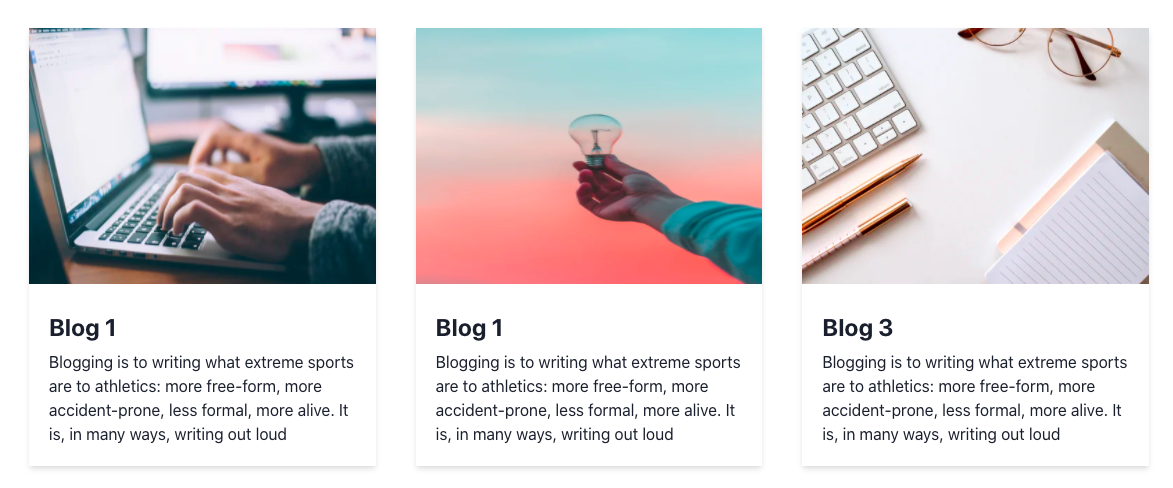
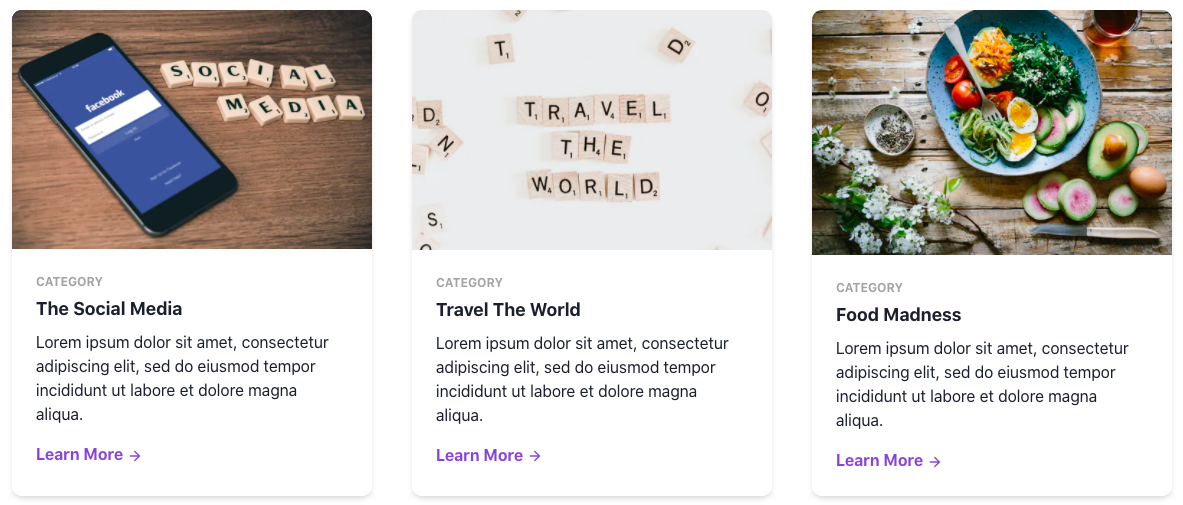
Modified the blog components

diff --git a/src/utils/componentsStructure/metaComponents/BlogComponent2.ts b/src/utils/componentsStructure/metaComponents/BlogComponent2.ts
@@ -1,63 +1,193 @@
-const Blog2 = `  <Flex>
-<Box width="30%" shadow="md" borderRadius="10px" m="5">
-  <Image
-    width="100%"
-    src="https://images.unsplash.com/photo-1432888622747-4eb9a8efeb07?ixid=MXwxMjA3fDB8MHxzZWFyY2h8ODB8fGJsb2d8ZW58MHx8MHw%3D&ixlib=rb-1.2.1&auto=format&fit=crop&w=500&q=60"
-    borderTopRightRadius="10px"
-    borderTopLeftRadius="10px"
-  />
-  <Box p="6">
-
-    <Text color="blackAlpha.500" fontWeight="700" fontSize="xs" mb="1">
-      CATEGORY
-    </Text>
-    <Text fontSize="lg" mb="2" fontWeight="700">The Social Media</Text>
-    <Text mb="4">
-      Lorem ipsum dolor sit amet, consectetur adipiscing elit, sed do eiusmod tempor incididunt ut labore et dolore magna aliqua.
-    </Text><Flex color="purple.500" fontWeight="700">
-      <Text mr="1">Learn More</Text>
-      <Icon as={ArrowForwardIcon} />
+const Blog2 = `
+<Box>
+<Flex height="300px" m="10" mb="20">
+  <Box
+    width="50%"
+    display="flex"
+    flexDirection="column"
+    justifyContent="space-between"
+    pt="4"
+    pb="4"
+    pr="16"
+  >
+    <Box>
+      <Box
+        width="fit-content"
+        backgroundColor="gray.100"
+        color="primary.500"
+        pl="5"
+        pr="5"
+        pt="1"
+        pb="1"
+        mb="2"
+        borderRadius="full"
+      >
+        <Text fontSize="xs" fontWeight="700">CATEGORY</Text>
+      </Box>
+      <Heading fontSize="3xl" mb="2">Explore Nature</Heading>
+      <Text color="gray.500" textAlign="justify">
+        Lorem ipsum dolor sit amet, consectetur adipiscing elit, sed do eiusmod tempor incididunt ut labore et dolore magna aliqua. Ut enim ad minim veniam&nbsp; aliquip ex ea commodo consequat. Duis aute irure dolor in reprehenderit in voluptate velit esse cillum dolore eu fugiat nulla pariatur.
+      </Text>
+    </Box><Flex
+      color="primary.500"
+      fontWeight="700"
+      fontSize="sm"
+      width="fit-content"
+      cursor="pointer"
+    >
+      <Text mr="1">Read More</Text>
+      <Icon as={ArrowForwardIcon} fontSize="md" />
     </Flex>
   </Box>
-</Box>
-<Box width="30%" shadow="md" borderRadius="10px" m="5">
-  <Image
-    width="100%"
-    src="https://images.unsplash.com/photo-1504542982118-59308b40fe0c?ixid=MXwxMjA3fDB8MHxzZWFyY2h8MTE0fHxibG9nfGVufDB8fDB8&ixlib=rb-1.2.1&auto=format&fit=crop&w=500&q=60"
-    borderTopRightRadius="10px"
-    borderTopLeftRadius="10px"
-  />
-  <Box p="6">
-    <Text color="blackAlpha.500" fontWeight="700" fontSize="xs" mb="1">
-      CATEGORY
-    </Text>
-    <Text fontSize="lg" mb="2" fontWeight="700">Travel the world</Text>
-    <Text mb="4">
-      Lorem ipsum dolor sit amet, consectetur adipiscing elit, sed do eiusmod tempor incididunt ut labore et dolore magna aliqua.
-    </Text><Flex color="purple.500" fontWeight="700">
-      <Text mr="1">Learn More</Text>
-      <Icon as={ArrowForwardIcon} />
+  <Box width="50%" height="100%">
+    <Image
+      src="https://images.unsplash.com/photo-1505245208761-ba872912fac0?ixid=MXwxMjA3fDB8MHxzZWFyY2h8Mzh8fG5hdHVyZXxlbnwwfHwwfA%3D%3D&ixlib=rb-1.2.1&auto=format&fit=crop&w=500&q=60"
+      width="100%"
+      height="100%"
+      borderRadius="md"
+    />
+  </Box>
+</Flex><Flex height="300px" m="10" mb="20">
+  <Box width="50%" height="100%">
+    <Image
+      src="https://images.unsplash.com/photo-1482192505345-5655af888cc4?ixid=MXwxMjA3fDB8MHxzZWFyY2h8NzF8fG5hdHVyZXxlbnwwfHwwfA%3D%3D&ixlib=rb-1.2.1&auto=format&fit=crop&w=500&q=60"
+      width="100%"
+      height="100%"
+      borderRadius="md"
+    />
+  </Box><Box
+    width="50%"
+    display="flex"
+    flexDirection="column"
+    justifyContent="space-between"
+    pt="4"
+    pb="4"
+    pl="16"
+  >
+    <Box>
+      <Box
+        width="fit-content"
+        backgroundColor="gray.100"
+        color="primary.500"
+        pl="5"
+        pr="5"
+        pt="1"
+        pb="1"
+        mb="2"
+        borderRadius="full"
+      >
+        <Text fontSize="xs" fontWeight="700">CATEGORY</Text>
+      </Box>
+      <Heading fontSize="3xl" mb="2">Peaceful Mind</Heading>
+      <Text color="gray.500" textAlign="justify">
+        Sed ut perspiciatis unde omnis iste natus error sit voluptatem accusantium doloremque laudantium, totam rem aperiam, eaque ipsa quae ab illo inventore veritatis et quasi architecto beatae vitae dicta sunt explicabo.&nbsp;
+      </Text>
+    </Box><Flex
+      color="primary.500"
+      fontWeight="700"
+      fontSize="sm"
+      width="fit-content"
+      cursor="pointer"
+    >
+      <Text mr="1">Read More</Text>
+      <Icon as={ArrowForwardIcon} fontSize="md" />
     </Flex>
   </Box>
-</Box>
-<Box width="30%" shadow="md" borderRadius="10px" m="5">
-  <Image
-    width="100%"
-    src="https://images.unsplash.com/photo-1490645935967-10de6ba17061?ixid=MXwxMjA3fDB8MHxzZWFyY2h8MTg2fHxibG9nfGVufDB8fDB8&ixlib=rb-1.2.1&auto=format&fit=crop&w=500&q=60"
-    borderTopRightRadius="10px"
-    borderTopLeftRadius="10px"
-  />
-  <Box p="6">
-    <Text color="blackAlpha.500" fontWeight="700" fontSize="xs" mb="1">
-      CATEGORY
-    </Text><Text fontSize="lg" mb="2" fontWeight="700">Food madness</Text><Text mb="4">
-      Lorem ipsum dolor sit amet, consectetur adipiscing elit, sed do eiusmod tempor incididunt ut labore et dolore magna aliqua.
-    </Text><Flex color="purple.500" fontWeight="700">
-      <Text mr="1">Learn More</Text>
-      <Icon as={ArrowForwardIcon} />
+</Flex><Flex height="300px" m="10" mb="20">
+  <Box
+    width="50%"
+    display="flex"
+    flexDirection="column"
+    justifyContent="space-between"
+    pt="4"
+    pb="4"
+    pr="16"
+  >
+    <Box>
+      <Box
+        width="fit-content"
+        backgroundColor="gray.100"
+        color="primary.500"
+        pl="5"
+        pr="5"
+        pt="1"
+        pb="1"
+        mb="2"
+        borderRadius="full"
+      >
+        <Text fontSize="xs" fontWeight="700">CATEGORY</Text>
+      </Box>
+      <Heading fontSize="3xl" mb="2">Meditation</Heading>
+      <Text color="gray.500" textAlign="justify">
+        Lorem ipsum dolor sit amet, consectetur adipiscing elit, sed do eiusmod tempor incididunt ut labore et dolore magna aliqua. Ut enim ad minim veniam&nbsp; aliquip ex ea commodo consequat. Duis aute irure dolor in reprehenderit in voluptate velit esse cillum dolore eu fugiat nulla pariatur.
+      </Text>
+    </Box><Flex
+      color="primary.500"
+      fontWeight="700"
+      fontSize="sm"
+      width="fit-content"
+      cursor="pointer"
+    >
+      <Text mr="1">Read More</Text>
+      <Icon as={ArrowForwardIcon} fontSize="md" />
     </Flex>
   </Box>
-</Box>
-</Flex>`
+  <Box width="50%" height="100%">
+    <Image
+      src="https://images.unsplash.com/photo-1559595500-e15296bdbb48?ixid=MXwxMjA3fDB8MHxzZWFyY2h8NzN8fG1lZGl0YXRpb258ZW58MHx8MHw%3D&ixlib=rb-1.2.1&auto=format&fit=crop&w=500&q=60"
+      width="100%"
+      height="100%"
+      borderRadius="md"
+    />
+  </Box>
+</Flex><Flex height="300px" m="10" mb="20">
+  <Box width="50%" height="100%">
+    <Image
+      src="https://images.unsplash.com/photo-1543459176-4426b37223ba?ixid=MXwxMjA3fDB8MHxzZWFyY2h8NHx8cGxhbnRzfGVufDB8fDB8&ixlib=rb-1.2.1&auto=format&fit=crop&w=500&q=60"
+      width="100%"
+      height="100%"
+      borderRadius="md"
+    />
+  </Box><Box
+    width="50%"
+    display="flex"
+    flexDirection="column"
+    justifyContent="space-between"
+    pt="4"
+    pb="4"
+    pl="16"
+    textAlign="justify"
+  >
+    <Box>
+      <Box
+        width="fit-content"
+        backgroundColor="gray.100"
+        color="primary.500"
+        pl="5"
+        pr="5"
+        pt="1"
+        pb="1"
+        mb="2"
+        borderRadius="full"
+      >
+        <Text fontSize="xs" fontWeight="700">CATEGORY</Text>
+      </Box>
+      <Heading fontSize="3xl" mb="2">Green Environment</Heading>
+      <Text color="gray.500">
+        Duis aute irure dolor in reprehenderit in voluptate velit esse cillum dolore eu fugiat nulla pariatur. Excepteur sint occaecat cupidatat non proident, sunt in culpa qui officia deserunt mollit anim id est laborum. Nemo enim ipsam voluptatem quia voluptas sit aspernatur aut odit aut fugit, sed quia consequuntur magni dolores eos qui ratione voluptatem sequi nesciunt.
+      </Text>
+    </Box><Flex
+      color="primary.500"
+      fontWeight="700"
+      fontSize="sm"
+      width="fit-content"
+      cursor="pointer"
+    >
+      <Text mr="1">Read More</Text>
+      <Icon as={ArrowForwardIcon} fontSize="md" />
+    </Flex>
+  </Box>
+</Flex>
+</Box>`
 
 export default Blog2

diff --git a/src/utils/componentsStructure/metaComponents/BlogComponent1.ts b/src/utils/componentsStructure/metaComponents/BlogComponent1.ts
@@ -1,44 +1,65 @@
 const Blog1 = `
-<Flex p="5">
-<Box width="30%" m="5" shadow="md">
+<Flex>
+<Box width="30%" shadow="md" borderRadius="10px" m="5">
   <Image
-    height="64"
     width="100%"
-    src="https://images.unsplash.com/photo-1486312338219-ce68d2c6f44d?ixid=MXwxMjA3fDB8MHxzZWFyY2h8Mnx8YmxvZ3xlbnwwfHwwfA%3D%3D&ixlib=rb-1.2.1&auto=format&fit=crop&w=500&q=60"
+    src="https://images.unsplash.com/photo-1432888622747-4eb9a8efeb07?ixid=MXwxMjA3fDB8MHxzZWFyY2h8ODB8fGJsb2d8ZW58MHx8MHw%3D&ixlib=rb-1.2.1&auto=format&fit=crop&w=500&q=60"
+    borderTopRightRadius="10px"
+    borderTopLeftRadius="10px"
   />
-  <Box p="5">
-    <Heading mt="2" mb="2" fontSize="2xl">Blog 1</Heading>
-    <Text>
-      Blogging is to writing what extreme sports are to athletics: more free-form, more accident-prone, less formal, more alive. It is, in many ways, writing out loud
+  <Box p="6">
+
+    <Text color="blackAlpha.500" fontWeight="700" fontSize="xs" mb="1">
+      CATEGORY
     </Text>
+    <Text fontSize="lg" mb="2" fontWeight="700">The Social Media</Text>
+    <Text mb="4">
+      Lorem ipsum dolor sit amet, consectetur adipiscing elit, sed do eiusmod tempor incididunt ut labore et dolore magna aliqua.
+    </Text><Flex color="purple.500" fontWeight="700">
+      <Text mr="1">Learn More</Text>
+      <Icon as={ArrowForwardIcon} />
+    </Flex>
   </Box>
 </Box>
-<Box width="30%" m="5" shadow="md">
+<Box width="30%" shadow="md" borderRadius="10px" m="5">
   <Image
-    height="64"
     width="100%"
-    src="https://images.unsplash.com/photo-1493612276216-ee3925520721?ixid=MXwxMjA3fDB8MHxzZWFyY2h8MTN8fGJsb2d8ZW58MHx8MHw%3D&ixlib=rb-1.2.1&auto=format&fit=crop&w=500&q=60"
+    src="https://images.unsplash.com/photo-1504542982118-59308b40fe0c?ixid=MXwxMjA3fDB8MHxzZWFyY2h8MTE0fHxibG9nfGVufDB8fDB8&ixlib=rb-1.2.1&auto=format&fit=crop&w=500&q=60"
+    borderTopRightRadius="10px"
+    borderTopLeftRadius="10px"
   />
-  <Box p="5">
-    <Heading mt="2" mb="2" fontSize="2xl">Blog 1</Heading>
-    <Text>
-      Blogging is to writing what extreme sports are to athletics: more free-form, more accident-prone, less formal, more alive. It is, in many ways, writing out loud
+  <Box p="6">
+    <Text color="blackAlpha.500" fontWeight="700" fontSize="xs" mb="1">
+      CATEGORY
     </Text>
+    <Text fontSize="lg" mb="2" fontWeight="700">Travel the world</Text>
+    <Text mb="4">
+      Lorem ipsum dolor sit amet, consectetur adipiscing elit, sed do eiusmod tempor incididunt ut labore et dolore magna aliqua.
+    </Text><Flex color="purple.500" fontWeight="700">
+      <Text mr="1">Learn More</Text>
+      <Icon as={ArrowForwardIcon} />
+    </Flex>
   </Box>
 </Box>
-<Box width="30%" m="5" shadow="md">
+<Box width="30%" shadow="md" borderRadius="10px" m="5">
   <Image
-    height="64"
     width="100%"
-    src="https://images.unsplash.com/photo-1542435503-956c469947f6?ixid=MXwxMjA3fDB8MHxzZWFyY2h8MzF8fGJsb2d8ZW58MHx8MHw%3D&ixlib=rb-1.2.1&auto=format&fit=crop&w=500&q=60"
+    src="https://images.unsplash.com/photo-1490645935967-10de6ba17061?ixid=MXwxMjA3fDB8MHxzZWFyY2h8MTg2fHxibG9nfGVufDB8fDB8&ixlib=rb-1.2.1&auto=format&fit=crop&w=500&q=60"
+    borderTopRightRadius="10px"
+    borderTopLeftRadius="10px"
   />
-  <Box p="5">
-    <Heading mt="2" mb="2" fontSize="2xl">Blog 3</Heading>
-    <Text>
-      Blogging is to writing what extreme sports are to athletics: more free-form, more accident-prone, less formal, more alive. It is, in many ways, writing out loud
-    </Text>
+  <Box p="6">
+    <Text color="blackAlpha.500" fontWeight="700" fontSize="xs" mb="1">
+      CATEGORY
+    </Text><Text fontSize="lg" mb="2" fontWeight="700">Food madness</Text><Text mb="4">
+      Lorem ipsum dolor sit amet, consectetur adipiscing elit, sed do eiusmod tempor incididunt ut labore et dolore magna aliqua.
+    </Text><Flex color="purple.500" fontWeight="700">
+      <Text mr="1">Learn More</Text>
+      <Icon as={ArrowForwardIcon} />
+    </Flex>
   </Box>
 </Box>
-</Flex>`
+</Flex>
+`
 
 export default Blog1

diff --git a/src/components/sidebar/ReadyMadeComponents.tsx b/src/components/sidebar/ReadyMadeComponents.tsx
@@ -22,7 +22,7 @@ const ReadyMadeComponents = () => {
   }
   return (
     <Box p={2}>
-      <Text color="neutrals.500" mb={2} mt={5} fontSize="sm">
+      <Text color="neutrals.500" mb={4} mt={5} fontSize="sm">
         Ready components
       </Text>
       <Flex flexDirection="column" alignItems="center">
